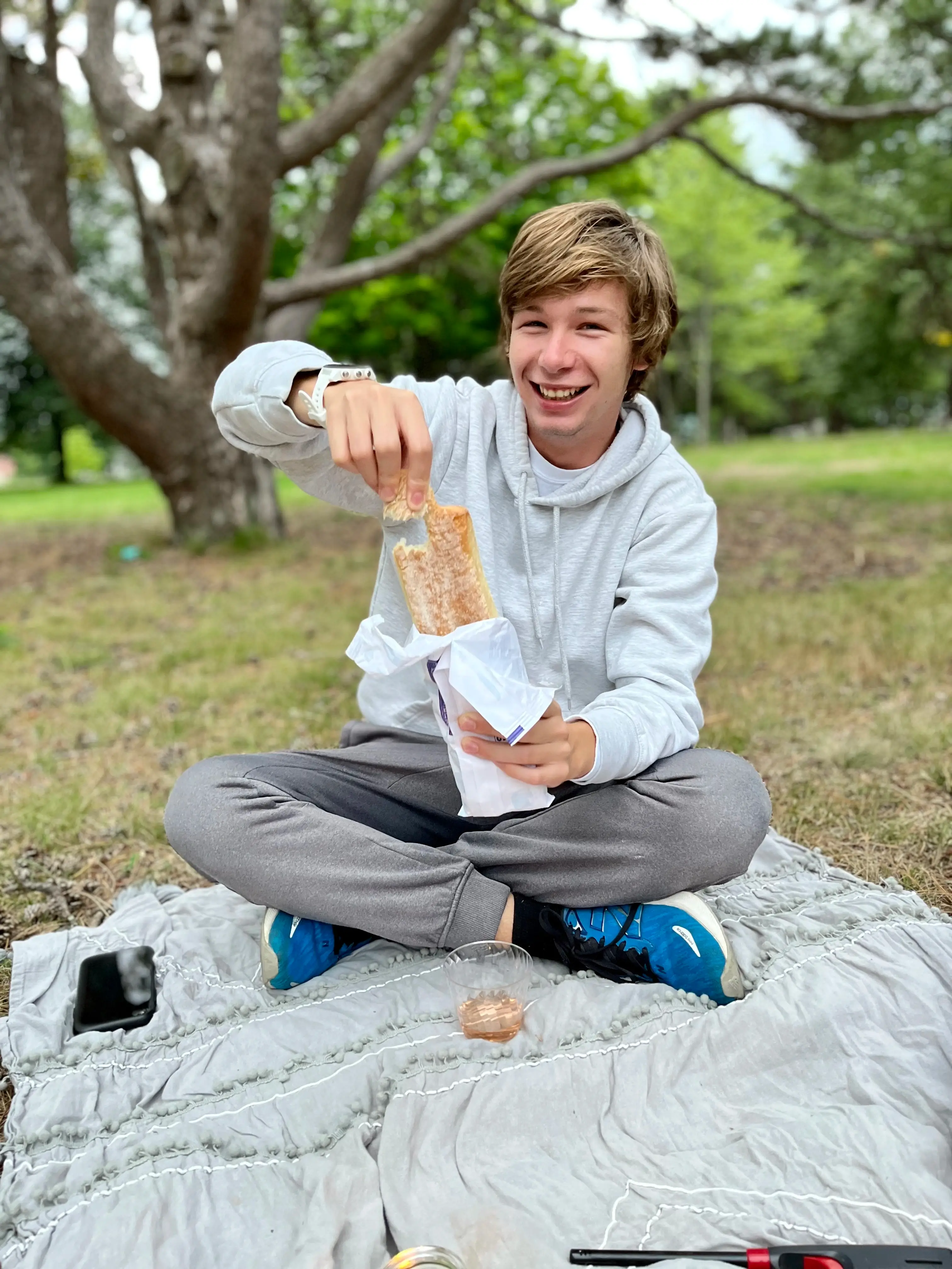
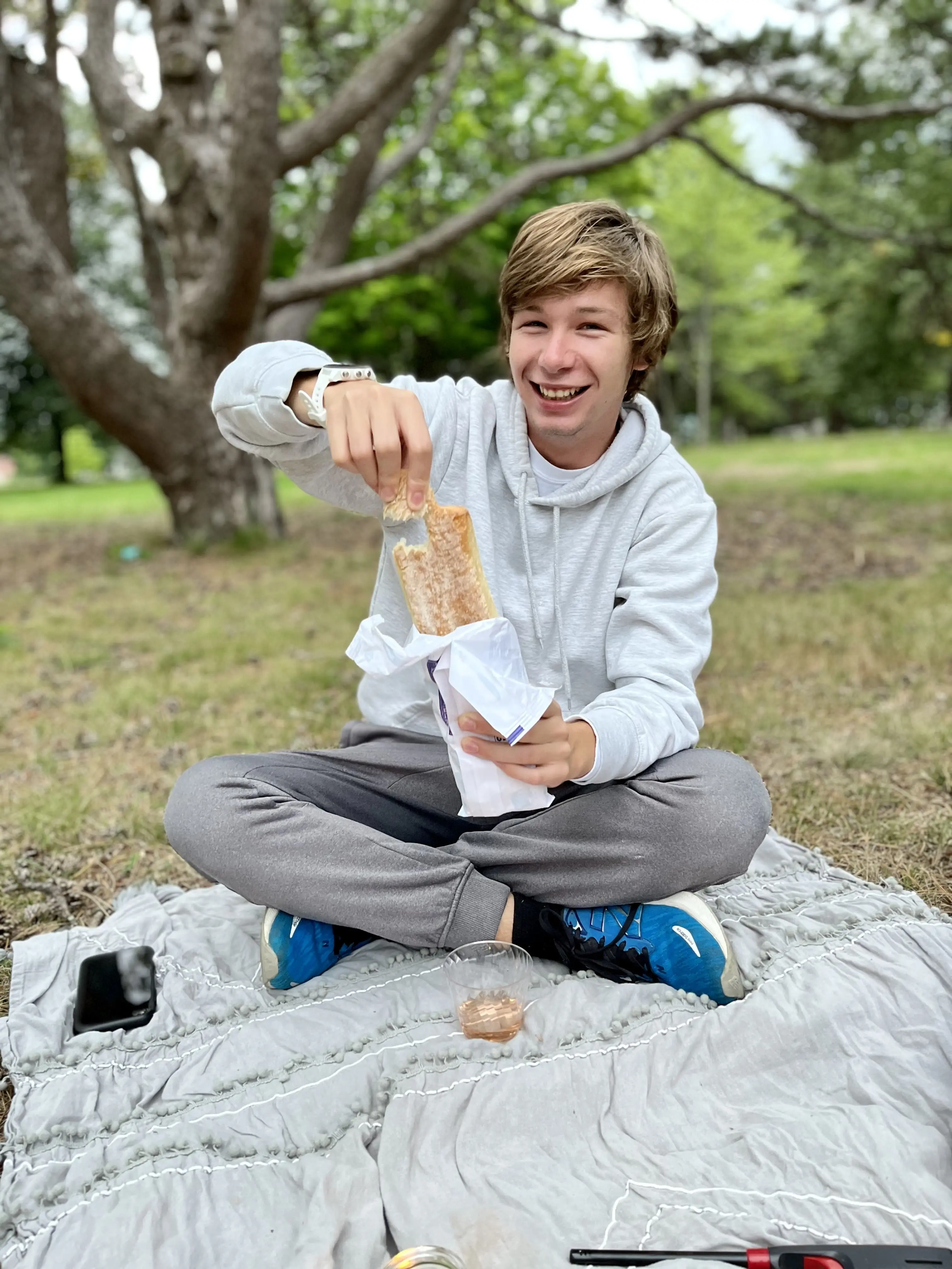
added webp

diff --git a/src/index.html b/src/index.html
@@ -1,7 +1,7 @@
 ---
 title: 'Running Waters Wellness'
 description: 'Wellness Consultations and Blog by Herbalist and Wellness Consultant Jeff Waters'
-preloadImg: '/assets/images/landing.jpg'
+preloadImg: '/assets/images/flowers.webp'
 permalink: '/'
 eleventyNavigation:
   key: Home
@@ -69,9 +69,9 @@ Looking forward to meeting you at our first consultation today!</p> #}
             <!-- Left Image Section -->
             <div class="cs-left">
                 <picture class="cs-picture cs-picture1">
-                    <source media="(max-width: 600px)" srcset="/assets/images/index/jeff.jpg">
-                    <source media="(min-width: 601px)" srcset="/assets/images/index/jeff.jpg">
-                    <img aria-hidden="true" decoding="async" src="/assets/images/index/jeff.jpg" alt="cabinets" loading="lazy" >
+                    <source media="(max-width: 600px)" srcset="/assets/images/index/jeff.webp">
+                    <source media="(min-width: 601px)" srcset="/assets/images/index/jeff.webp">
+                    <img aria-hidden="true" decoding="async" src="/assets/images/index/jeff.webp" alt="cabinets" loading="lazy" >
                     {# width="400" height="563" #}
                 </picture>
 
